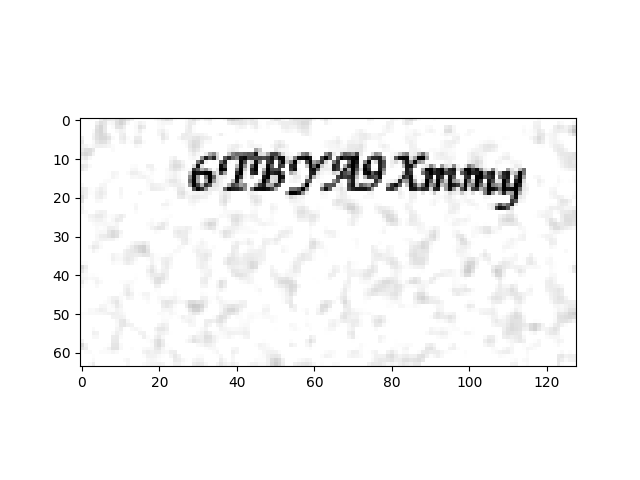
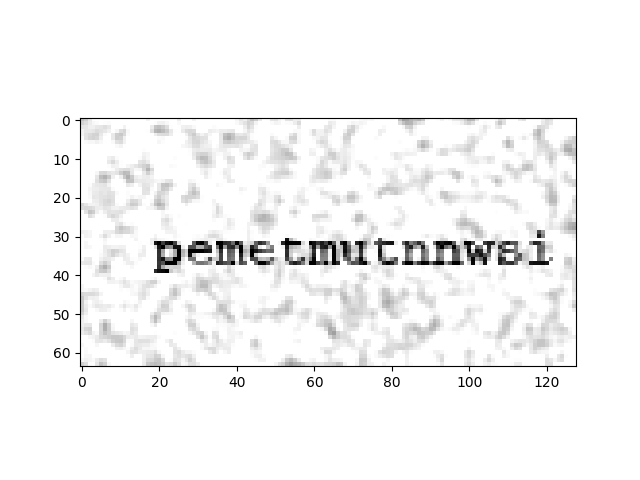
-

diff --git a/algs/ocr/keras/util.py b/algs/ocr/keras/util.py
@@ -7,9 +7,38 @@ import keras.callbacks
 import numpy as np
 import unicodedata
 import random, string
-all_chars = string.ascii_lowercase + string.ascii_uppercase + string.digits
+#all_chars = string.ascii_lowercase + string.ascii_uppercase + string.digits
+all_chars = u'abcdefghijklmnopqrstuvwxyz '
 all_chars_idx = range(len(all_chars))
-absolute_max_string_len = 15
+absolute_max_string_len = 16
+w = 128
+h = 64
+
+def randomstring():
+    rlen = random.choice(range(3,absolute_max_string_len))
+    ridx = [random.choice(all_chars_idx) for i in range(rlen)]
+    rchars = [all_chars[i] for i in ridx]
+    str = "".join(rchars)
+    return ridx, str
+
+def get_minibatch(batch_size=1):
+    res = {}
+    source_str = []
+    the_labels = np.ones((batch_size,absolute_max_string_len))
+    vals = np.array(np.zeros((batch_size,w,h,1)))
+    for i in range(batch_size):
+    	(idxs,str) = randomstring()
+    	tmp = paint_text(str,w,h,rotate=True,ud=True,multi_fonts=True)
+    	vals[i, :] = tmp.reshape((w,h,1))
+        for j in range(len(idxs)): the_labels[i, j] = idxs[j]
+        source_str.append(str)
+
+    res['the_input'] = vals
+    res['the_labels'] = the_labels
+    res['source_str'] = source_str
+    return (res,)
+
+
 
 # this creates larger "blotches" of noise which look
 # more realistic than just adding gaussian noise
@@ -38,7 +67,7 @@ def paint_text(text, w, h, rotate=False, ud=False, multi_fonts=False):
                                      np.random.choice([cairo.FONT_WEIGHT_BOLD, cairo.FONT_WEIGHT_NORMAL]))
         else:
             context.select_font_face('Courier', cairo.FONT_SLANT_NORMAL, cairo.FONT_WEIGHT_BOLD)
-        context.set_font_size(15)
+        context.set_font_size(13)
         box = context.text_extents(text)
         border_w_h = (4, 4)
         if box[2] > (w - 2 * border_w_h[1]) or box[3] > (h - 2 * border_w_h[0]):
@@ -69,10 +98,4 @@ def paint_text(text, w, h, rotate=False, ud=False, multi_fonts=False):
 
     return a
 
-def randomstring():
-    rlen = random.choice(range(3,absolute_max_string_len))
-    ridx = [random.choice(all_chars_idx) for i in range(rlen)]
-    rchars = [all_chars[i] for i in ridx]
-    str = "".join(rchars)
-    return ridx, str
 

diff --git a/algs/ocr/keras/test3.md b/algs/ocr/keras/test3.md
@@ -6,11 +6,8 @@ import matplotlib.pyplot as plt
 import pickle
 
 f = open("dict.pkl")
-
 res= pickle.load(f)
-
 f.close()
-
 ```
 
 ```python
@@ -20,68 +17,70 @@ print 'label_length',res[0]['label_length']
 print 'the_labels',res[0]['the_labels']
 print 'the_labels',res[0]['the_labels'].shape
 print 'input_length',res[0]['input_length']
+print 'the_input',type(res[0]['the_input'])
 print 'the_input',res[0]['the_input'].shape
-print 'the_input',res[0]['the_input']
 ```
 
 ```text
 ['the_input', 'input_length', 'the_labels', 'label_length', 'source_str']
-source str ['']
-label_length [[ 1.]]
+source str ['', '']
+label_length [[ 1.]
+ [ 1.]]
 the_labels [[ 27.   1.   1.   1.   1.   1.   1.   1.   1.   1.   1.   1.   1.   1.
+    1.   1.]
+ [ 27.   1.   1.   1.   1.   1.   1.   1.   1.   1.   1.   1.   1.   1.
+    1.   1.]]
+the_labels (2, 16)
+input_length [[ 30.]
+ [ 30.]]
+the_input <type 'numpy.ndarray'>
+the_input (2, 128, 64, 1)
+```
+
+```python
+import util
+
+res = util.get_minibatch()
+print 'source str',res[0]['source_str']
+#print 'label_length',res[0]['label_length']
+print 'the_labels',res[0]['the_labels']
+print 'the_labels',res[0]['the_labels'].shape
+#print 'input_length',res[0]['input_length']
+print 'the_input',res[0]['the_input'].shape
+
+img = res[0]['the_input']
+img = img.reshape((util.h,util.w))
+plt.imshow(img,cmap='gray',interpolation="none")
+plt.savefig('out1.png')
+```
+
+```text
+source str [u'pemetmutnnwsi']
+the_labels [[ 15.   4.  12.   4.  19.  12.  20.  19.  13.  13.  22.  18.   8.   1.
     1.   1.]]
 the_labels (1, 16)
-input_length [[ 30.]]
 the_input (1, 128, 64, 1)
-the_input [[[[ 1.        ]
-   [ 1.        ]
-   [ 1.        ]
-   ..., 
-   [ 0.89905836]
-   [ 0.72517273]
-   [ 0.58361949]]
-
-  [[ 1.        ]
-   [ 1.        ]
-   [ 1.        ]
-   ..., 
-   [ 0.95834003]
-   [ 0.82342244]
-   [ 0.71497225]]
-
-  [[ 1.        ]
-   [ 1.        ]
-   [ 1.        ]
-   ..., 
-   [ 1.        ]
-   [ 0.91582534]
-   [ 0.86362389]]
-
-  ..., 
-  [[ 0.62310733]
-   [ 0.85694265]
-   [ 1.        ]
-   ..., 
-   [ 0.91330392]
-   [ 0.94402978]
-   [ 0.93378349]]
-
-  [[ 0.61633236]
-   [ 0.73959987]
-   [ 0.9106204 ]
-   ..., 
-   [ 0.97831418]
-   [ 0.86011855]
-   [ 0.81922948]]
-
-  [[ 0.70092071]
-   [ 0.71957706]
-   [ 0.8120773 ]
-   ..., 
-   [ 1.        ]
-   [ 0.9293999 ]
-   [ 0.89497474]]]]
 ```
+
+
+
+
+
+
+
+
+
+
+
+
+
+
+
+
+
+
+
+
 
 
 

diff --git a/algs/ocr/keras/test1.md b/algs/ocr/keras/test1.md
@@ -21,7 +21,7 @@ print dataset.shape
 ```
 
 ```text
-6TBYA9Xmmy [58, 45, 27, 50, 26, 61, 49, 12, 12, 24]
+zibkU [25, 8, 1, 10, 46]
 (64, 128)
 (1, 128, 64, 1)
 ```
